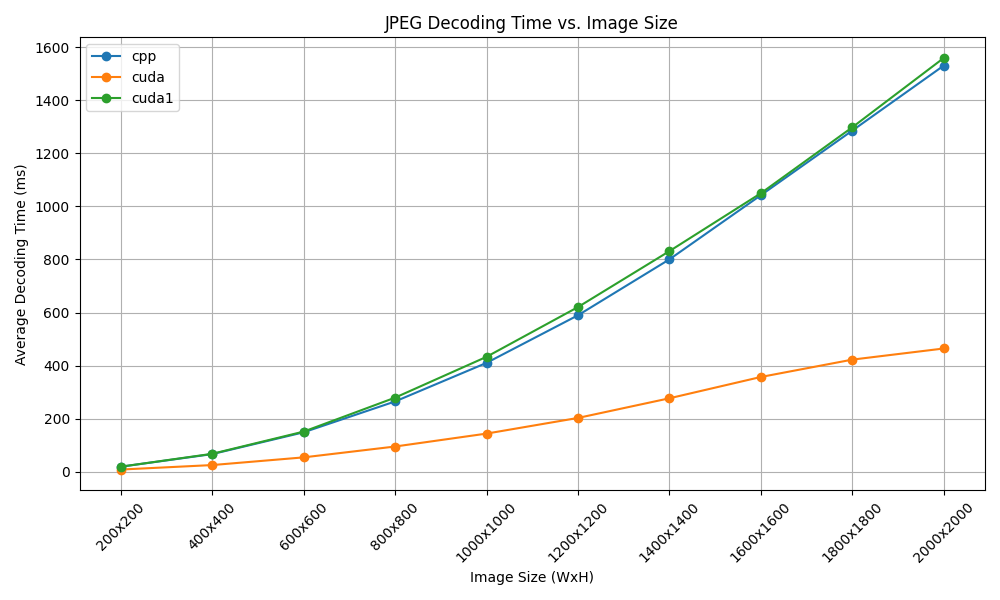
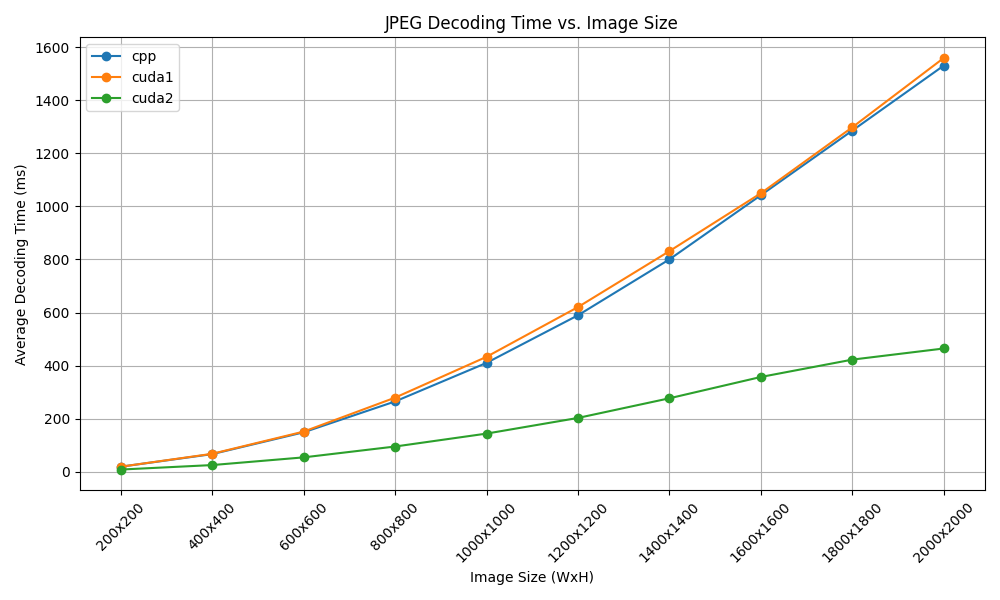
saving plots

diff --git a/plots/plot_benchmark.py b/plots/plot_benchmark.py
@@ -2,8 +2,9 @@ import os
 import json
 import matplotlib.pyplot as plt
 from collections import defaultdict
+from statistics import mean
 
-versions = ['cpp','cuda', 'cuda1']
+versions = ['cpp','cuda1', 'cuda2']
 
 sizes = [200, 400, 600, 800, 1000, 1200, 1400, 1600, 1800, 2000]
 
@@ -30,6 +31,15 @@ for version in versions:
     results_json = os.path.join('/home/dphpc2024_jpeg_1/GPU-JPEG-Decoder/', version+'-implementation', 'build/benchmark_results.json')
     average_times[version] = readings(results_json)
     print(average_times[version])
+
+speedups = []
+for i in range(len(average_times['cuda1'])):
+    speedups.append(average_times['cpp'][i]/average_times['cuda2'][i])
+print(speedups)
+print(mean(speedups))
+
+print(speedups[-1])
+
 
 # # Function to extract image size from the file path
 # def get_image_size(filename):
